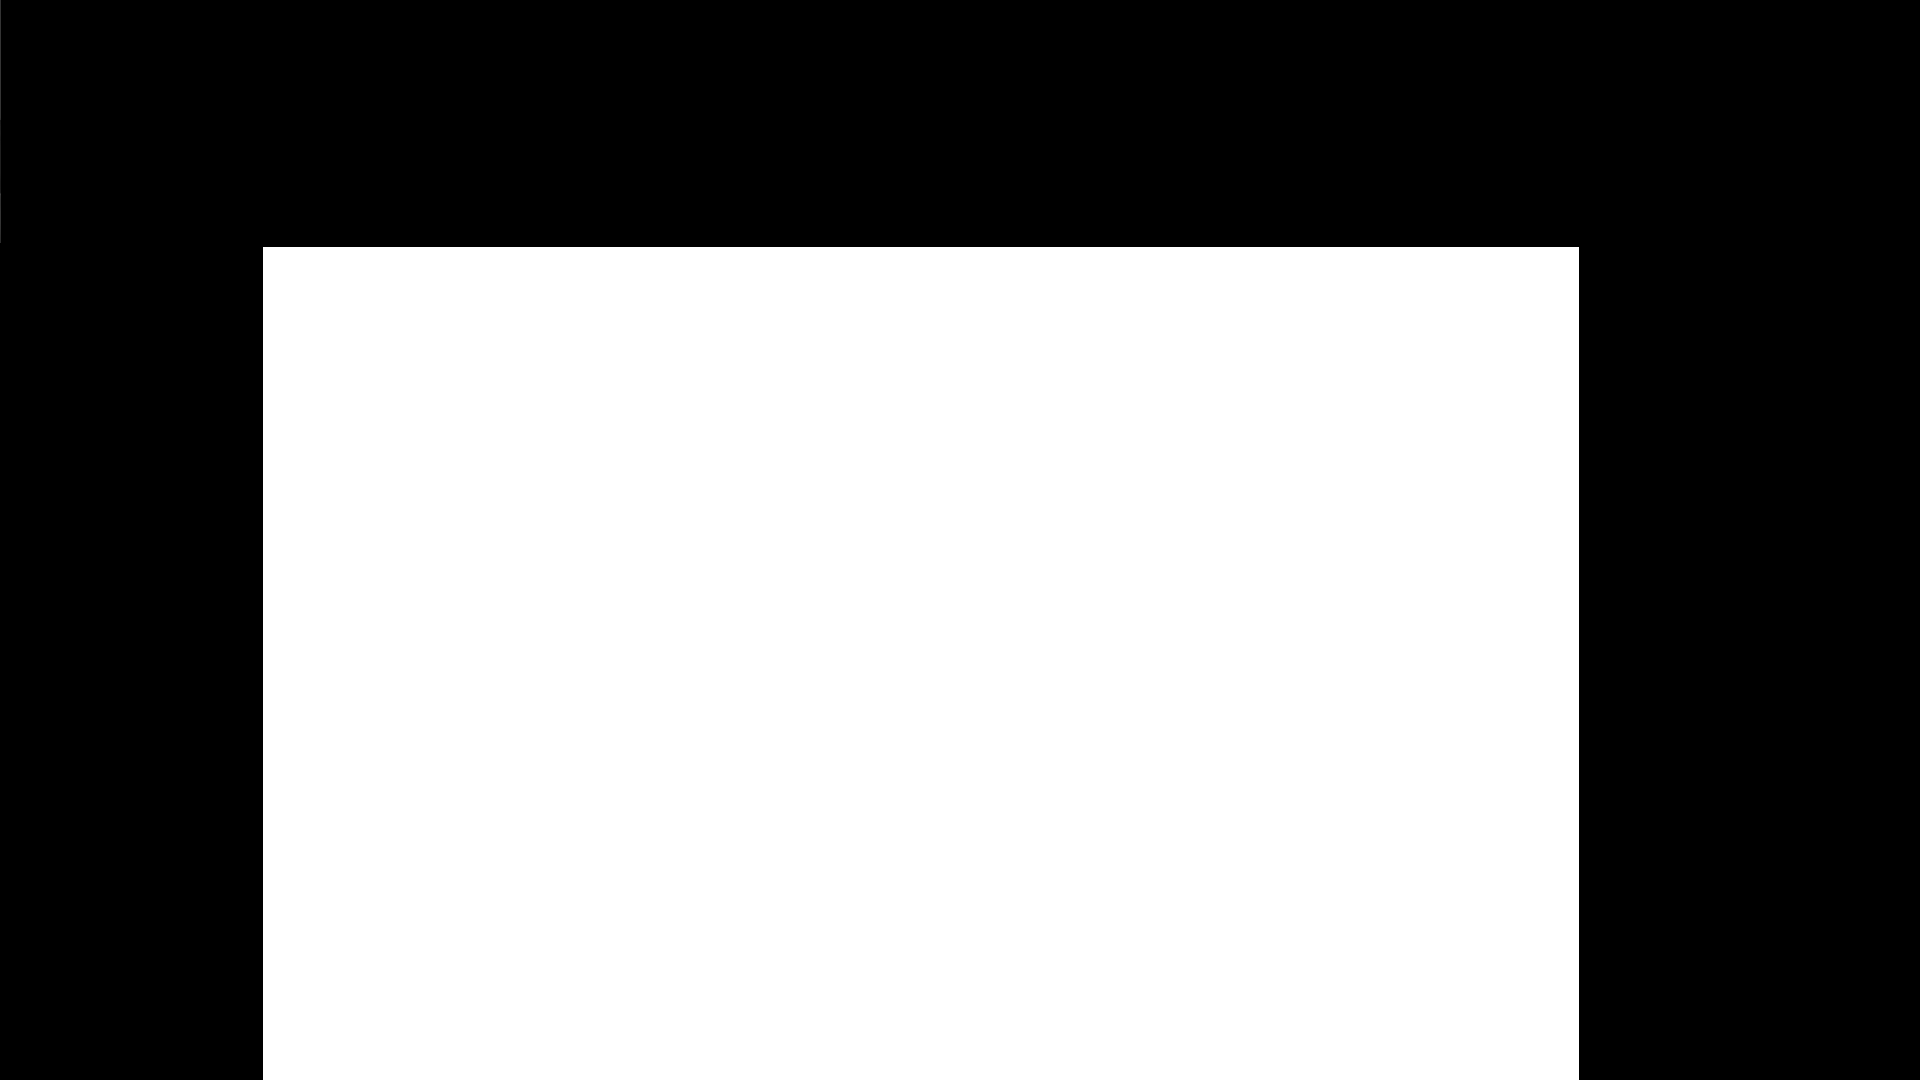
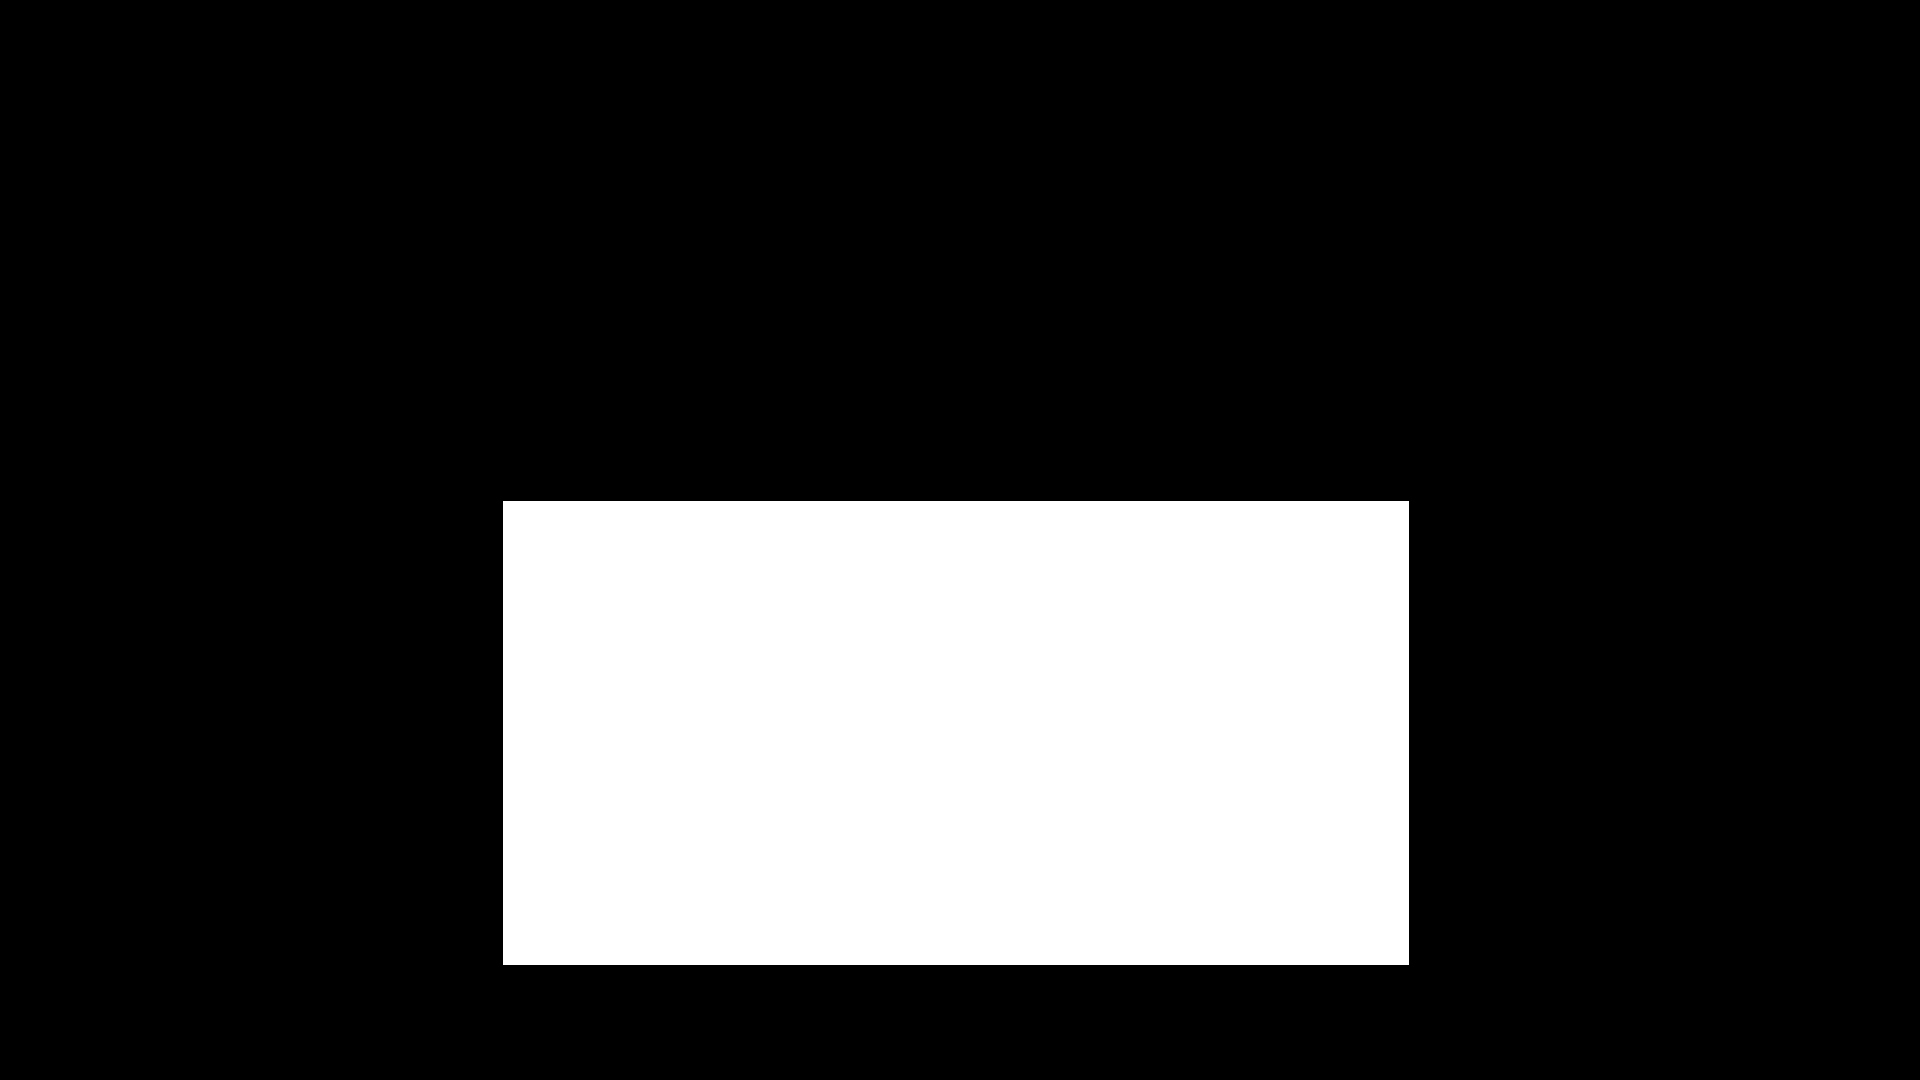
new mask and static validation set

diff --git a/file_sync.py b/file_sync.py
@@ -44,7 +44,7 @@ class FileManager:
                 print("An error occurred while synchronizing directories:", e)
         else:
             unc_path = f"\\\\{remote_host}\\{remote_path}"
-            robocopy_cmd = f"robocopy {unc_path} {self.local_path_training_data} /MIR /XD thumbs.db /XD Thumbs.db"
+            robocopy_cmd = f"robocopy {unc_path} {self.local_path_training_data} /MIR /XF thumbs.db /XF Thumbs.db"
             try:
                 #normal robocopy command
                 subprocess.run(robocopy_cmd, shell=True, check=True)
@@ -84,3 +84,25 @@ class FileManager:
             shutil.move(source_path, dest_path)
 
         print(f"Moved {val_count} files from {source_dir} to {val_dir} with high-entropy randomness.")
+
+    def copy_static_validation_data(self, remote_user, remote_password, remote_host, remote_path):
+        #if not windows, use rsync
+        if os.name != 'nt':
+            rsync_cmd = f"rsync -avz --delete  --exclude 'thumbs.db' --exclude 'Thumbs.db' {remote_user}@{remote_host}:{remote_path}/ {self.local_path_training_data}/"
+            try:
+                child = pexpect.spawn(rsync_cmd)
+                child.expect('password:')
+                child.sendline(remote_password)
+                child.interact()
+                print("Directory successfully synchronized.")
+            except pexpect.exceptions.ExceptionPexpect as e:
+                print("An error occurred while synchronizing directories:", e)
+        else:
+            unc_path = f"\\\\{remote_host}\\{remote_path}"
+            robocopy_cmd = f"robocopy {unc_path} {self.local_path_validation_data} /XF thumbs.db /XF Thumbs.db /S"
+            try:
+                #normal robocopy command
+                subprocess.run(robocopy_cmd, shell=True, check=True)
+                print("Directory successfully synchronized.")
+            except subprocess.CalledProcessError as e:
+                print("An error occurred while synchronizing directories:", e)

diff --git a/train_model.py b/train_model.py
@@ -54,7 +54,7 @@ def create_file_manager():
         logging.info('Syncing source files')
         file_manager.sync_source(creds.nas_user, creds.nas_password, creds.nas_host, creds.nas_path)
 
-        logging.info('Splitting data for validation')
+        logging.info('Splitting data ramdomly for validation')
         file_manager.split_data_for_validation(
             os.path.join(file_manager.local_path_training_data, "true"),
             os.path.join(file_manager.local_path_validation_data, "true")
@@ -63,12 +63,14 @@ def create_file_manager():
             os.path.join(file_manager.local_path_training_data, "false"),
             os.path.join(file_manager.local_path_validation_data, "false")
         )
-        
-        #copy from static validation library
-        #\\192.168.0.15\training_data\crib_validation\ true false
 
-        #os.path.join(file_manager.local_path_validation_data, "true")
-        #os.path.join(file_manager.local_path_validation_data, "false")
+        logging.info('Copying static validation images')
+        file_manager.copy_static_validation_data(
+            creds.nas_user, 
+            creds.nas_password, 
+            creds.nas_host, 
+            creds.static_validation_path
+        )
 
         file_sync_end_time = time.time()
         logging.info(f'Source sync and data split took {file_sync_end_time - file_sync_start_time:.2f} seconds')
